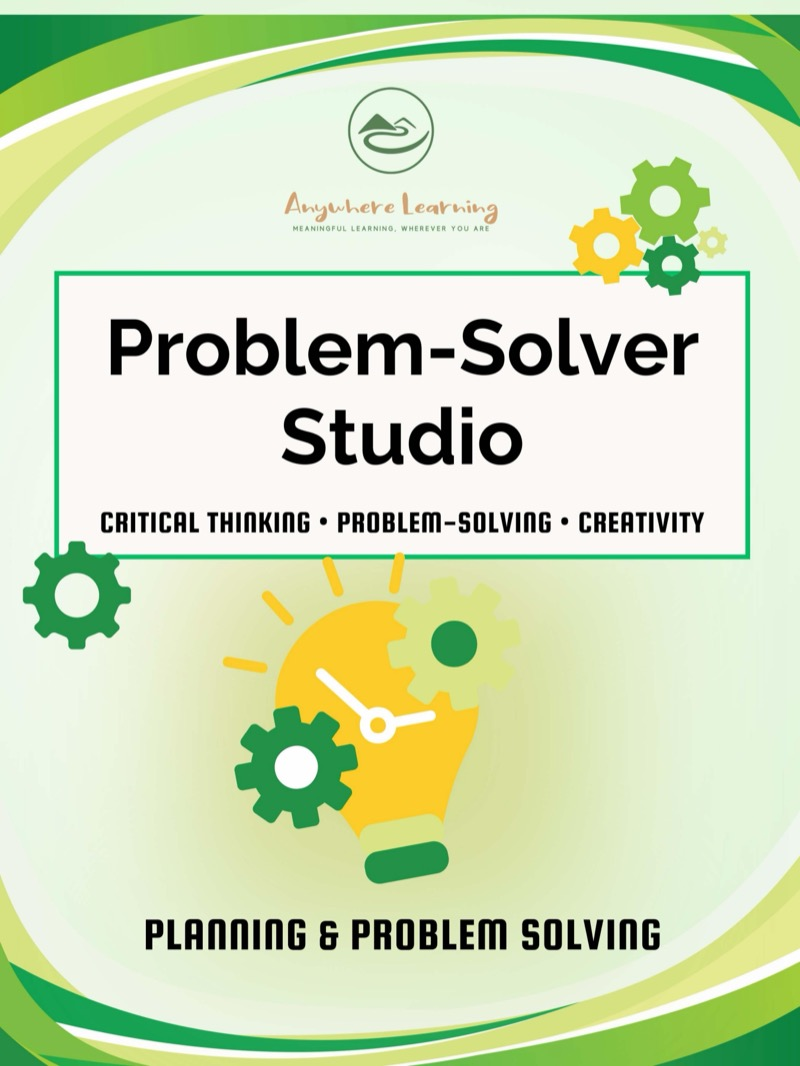
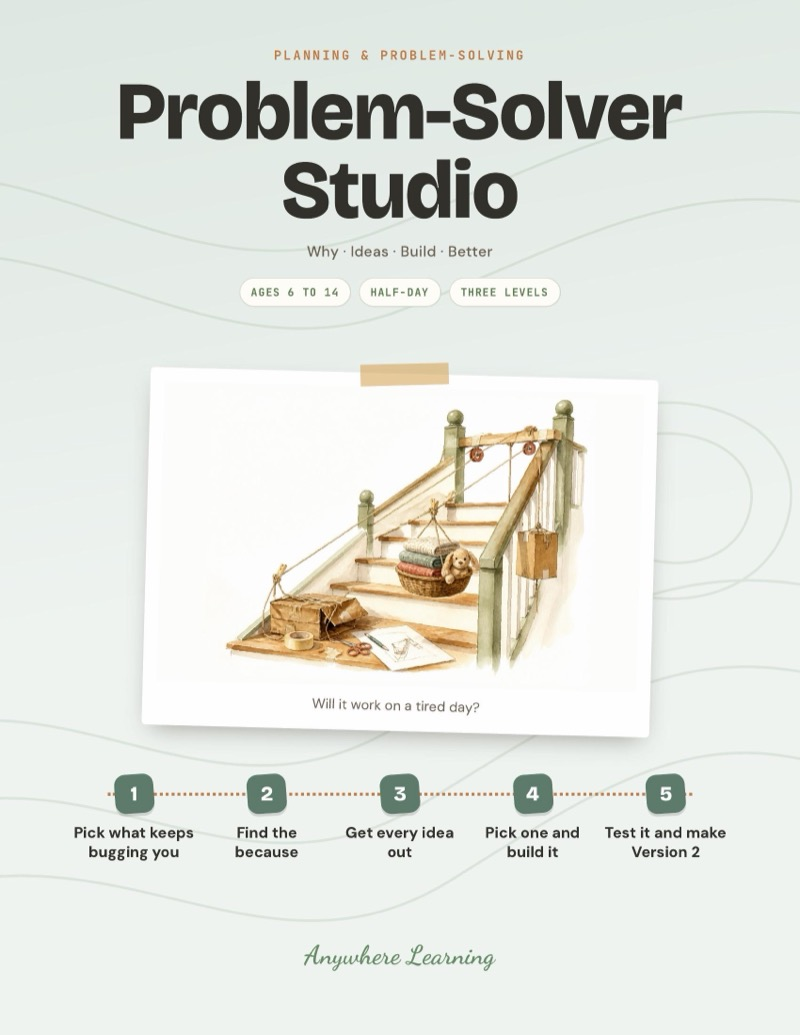
Problem-Solver Studio: redesigned guide, pulley watercolour, new listing, ages 6-14, self-management tag

diff --git a/scripts/seed.ts b/scripts/seed.ts
@@ -53,7 +53,7 @@ async function seed() {
     { name: 'Kitchen Math & Meal Planning Challenge', slug: 'kitchen-math-challenge', description: 'Your child plans one to three real meals for the family, checks what is already at home, turns the meals into a shopping list and prices it by the package. Then they shop it with their own list, help make it, and lay the receipt next to the plan. Real-world STEM maths about what one serving costs, and what the store makes you buy.', shortDescription: 'Real-world maths (STEM) for kids ages 9-14: plan real family meals, price them by the package, shop the list and cook it.', priceCents: 599, compareAtPriceCents: null, stripePriceId: 'price_1TFcTbAMzOBftCntCTnW0gph', blobUrl: '', imageUrl: '/products/kitchen-math-challenge.jpg', category: 'real-world-math', isBundle: false, bundleProductIds: null, activityCount: null, ageRange: 'Ages 9\u201314', sortOrder: 111, active: true },
     { name: 'Media & Info Check', slug: 'media-info-check', description: 'Check reliability signals, find evidence, cross-check sources, and decide what is worth sharing.', shortDescription: 'Media literacy and critical thinking.', priceCents: 599, compareAtPriceCents: null, stripePriceId: 'price_1TFcTcAMzOBftCntRkLHGW3w', blobUrl: '', imageUrl: '/products/media-info-check.jpg', category: 'ai-literacy', isBundle: false, bundleProductIds: null, activityCount: null, ageRange: 'Ages 9\u201314', sortOrder: 80, active: true },
     { name: 'Micro-Business Challenge', slug: 'micro-business', description: 'Design a real business from scratch: idea, pricing, brand, marketing, and pitch.', shortDescription: 'Real entrepreneurship, not a simulation.', priceCents: 599, compareAtPriceCents: null, stripePriceId: 'price_1TFcTcAMzOBftCntZcUkdoFu', blobUrl: '', imageUrl: '/products/micro-business.jpg', category: 'entrepreneurship', isBundle: false, bundleProductIds: null, activityCount: null, ageRange: 'Ages 9\u201314', sortOrder: 130, active: true },
-    { name: 'Problem-Solver Studio', slug: 'problem-solver', description: 'Pick a real problem, brainstorm, prototype with household materials, test, and improve.', shortDescription: 'Design thinking for real problems.', priceCents: 599, compareAtPriceCents: null, stripePriceId: 'price_1TFcTcAMzOBftCntgT52Nlxh', blobUrl: '', imageUrl: '/products/problem-solver.jpg', category: 'planning-problem-solving', isBundle: false, bundleProductIds: null, activityCount: null, ageRange: 'Ages 9\u201314', sortOrder: 141, active: true },
+    { name: 'Problem-Solver Studio', slug: 'problem-solver', description: 'Your child takes something that keeps bugging them, like the water bottle they lose every week, and solves it for good. They find out why it keeps happening, get every idea out, build the simplest fix from what is around the house, test it for real and make a Version 2 that still works on a tired day.', shortDescription: 'Project for kids ages 6-14: find out why a problem keeps coming back, build a simple fix, test it and make Version 2.', priceCents: 599, compareAtPriceCents: null, stripePriceId: 'price_1TFcTcAMzOBftCntgT52Nlxh', blobUrl: '', imageUrl: '/products/problem-solver.jpg', category: 'planning-problem-solving', isBundle: false, bundleProductIds: null, activityCount: null, ageRange: 'Ages 6–14', sortOrder: 141, active: true },
     { name: 'Smart Shopper Lab', slug: 'smart-shopper', description: 'Your child makes a real purchase decision, with their own money or for something the family needs. They compare two options, build their own rubric, see both in person if they can, work out cost per use and hidden costs, and spot the marketing tricks. Then they wait two weeks before buying. Real-world STEM maths and media literacy, and the habit of thinking before spending.', shortDescription: 'Real-world maths (STEM) for kids ages 9-14: compare two real options, work out cost per use, spot the marketing, then wait before buying.', priceCents: 599, compareAtPriceCents: null, stripePriceId: 'price_1TFcTdAMzOBftCntoJjP3hy7', blobUrl: '', imageUrl: '/products/smart-shopper.jpg', category: 'real-world-math', isBundle: false, bundleProductIds: null, activityCount: null, ageRange: 'Ages 9\u201314', sortOrder: 112, active: true },
     { name: 'Time & Energy Planner', slug: 'time-energy-planner', description: 'Map energy patterns, match tasks to brain power, build a real plan, test it, and fix what doesn\u2019t work.', shortDescription: 'Self-management that actually sticks.', priceCents: 599, compareAtPriceCents: null, stripePriceId: 'price_1TFcTdAMzOBftCntcxl1ggJF', blobUrl: '', imageUrl: '/products/time-energy-planner.jpg', category: 'planning-problem-solving', isBundle: false, bundleProductIds: null, activityCount: null, ageRange: 'Ages 9\u201314', sortOrder: 142, active: true },
     { name: 'Travel Day Itinerary Challenge', slug: 'travel-day', description: 'Your child plans a real day out, like a theme park, a zoo, a city or a travel day. They collect a must-do from each person, put the stops in the order that wastes the least time, build a timeline with buffers and a budget, and write a Plan B for what could go wrong. Then they lead the day and compare the plan with what really happened.', shortDescription: 'Planning activity for kids ages 6-14: plan a real day out with must-dos, a timeline, a budget and a Plan B.', priceCents: 599, compareAtPriceCents: null, stripePriceId: 'price_1TFcTeAMzOBftCntm89oK6q4', blobUrl: '', imageUrl: '/products/travel-day.jpg', category: 'planning-problem-solving', isBundle: false, bundleProductIds: null, activityCount: null, ageRange: 'Ages 6\u201314', sortOrder: 143, active: true },

diff --git a/lib/product-descriptions.ts b/lib/product-descriptions.ts
@@ -1129,23 +1129,24 @@ export const productDescriptions: Record<string, ProductDescription> = {
   },
   'problem-solver': {
     opening:
-      'Your child picks a real problem, figures out who it affects, brainstorms solutions, builds a prototype from whatever is around the house, tests it, gets feedback, and makes it better. Design thinking the way real engineers and inventors actually work, applied to everyday life.',
+      'Your child takes something that keeps bugging them, like the water bottle they lose every week, and solves it for good. They find out why it keeps happening, get every idea out, build the simplest fix from what is around the house, test it for real and make a Version 2 that still works on a tired day.',
     whatsIncluded: [
-      'Real problem identification with 8 starter cards',
-      'Who-does-this-affect research step',
-      'Brainstorming with constraints',
-      'Prototype building with household materials',
-      'Testing, feedback, and Version 2 revision',
+      'A 5-step guide from what keeps bugging you to Version 2',
+      'A worked example that shows why trying harder never lasts',
+      'Everyday problems card and Keep asking card',
+      'Idea starters card and The tests card',
+      'My fix page to fill in and keep',
     ],
-    skillTags: ['Critical Thinking', 'Problem-Solving', 'Creativity'],
+    skillTags: ['Problem-Solving', 'Critical Thinking', 'Creativity', 'Testing', 'Independence'],
     insideTheLearning: {
       lead:
-        'Your child picks a real problem, works out who it actually affects, then builds a prototype out of what is in the house and tests it on someone. It fails somewhere, gets revised, and gets tested again. The revision loop is the whole point.',
+        'Your child finds out that most fixes fail because they go after the part you can see. They keep asking why something keeps happening, build a simple fix for the real reason, and test it for a few days until it works without anyone having to remember.',
       skills: [
-        { skill: 'Critical Thinking', where: 'Identifying a problem worth solving and researching who it really affects' },
-        { skill: 'Problem-Solving', where: 'Brainstorming inside real constraints and building a prototype from household materials' },
-        { skill: 'Planning', where: 'Sequencing the build so it gets finished, not just started' },
-        { skill: 'Communication', where: 'Testing it on a real person and taking what they say seriously' },
+        { skill: 'Critical Thinking', where: 'Asking why it keeps happening until they find the real reason' },
+        { skill: 'Creativity', where: 'Getting every idea out and going past the first one' },
+        { skill: 'Science', where: 'Testing a fix, then changing one thing at a time' },
+        { skill: 'Math', where: 'Counting and timing how often it happens before and after' },
+        { skill: 'Independence', where: 'Building something that works without being reminded' },
       ],
     },
     format: 'Project Guide',

diff --git a/lib/fallback-products.ts b/lib/fallback-products.ts
@@ -693,20 +693,20 @@ export const fallbackProducts: FallbackProduct[] = [
     name: "Problem-Solver Studio",
     slug: "problem-solver",
     description:
-      "Your child picks a real problem, figures out who it affects, brainstorms solutions, builds a prototype from whatever is around the house, tests it, gets feedback, and makes it better. Design thinking the way real engineers actually work.",
+      "Your child takes something that keeps bugging them, like the water bottle they lose every week, and solves it for good. They find out why it keeps happening, get every idea out, build the simplest fix from what is around the house, test it for real and make a Version 2 that still works on a tired day.",
     shortDescription:
-      "Design thinking for kids ages 9-14: pick a real problem, prototype a solution, test it, and improve it. Hands-on problem-solving.",
+      "Project for kids ages 6-14: find out why a problem keeps coming back, build a simple fix, test it and make Version 2.",
     priceCents: 599,
     compareAtPriceCents: null,
     stripePriceId: "price_1TLrpoAkIBECpwGmQAxyKwev",
     blobUrl: "",
     imageUrl: "/products/problem-solver.jpg",
-    previewFile: "Preview Planning & Problem-Solving Problem-Solver Studio.pdf",
+    previewFile: "Preview Planning & Problem-Solving Problem-Solver Studio v3.pdf",
     category: "planning-problem-solving",
     isBundle: false,
     bundleProductIds: null,
     activityCount: null,
-    ageRange: "Ages 9–14",
+    ageRange: "Ages 6–14",
     sortOrder: 141,
     active: true,
     createdAt: new Date("2025-04-01"),

diff --git a/lib/activity-blob-urls.ts b/lib/activity-blob-urls.ts
@@ -98,7 +98,7 @@ export const ACTIVITY_BLOB_URLS: Record<string, string> = {
   "pricing-experiment": "https://xkj3tzlgu6ylgllk.public.blob.vercel-storage.com/Entrepreneurship%20-%20Pricing%20Experiment%20v2.pdf",
   "privacy-footprint": "https://xkj3tzlgu6ylgllk.public.blob.vercel-storage.com/AI%20%26%20Digital%20Literacy%20-%20PRIVACY%20%26%20DIGITAL%20FOOTPRINT%20MAP%20v2.pdf",
   "probability-lab": "https://xkj3tzlgu6ylgllk.public.blob.vercel-storage.com/Real-world%20math%20-%20The%20Probability%20Lab%20v5.pdf",
-  "problem-solver": "https://xkj3tzlgu6ylgllk.public.blob.vercel-storage.com/Planning%20%26%20Problem-Solving%20Problem-Solver%20Studio%20v2.pdf",
+  "problem-solver": "https://xkj3tzlgu6ylgllk.public.blob.vercel-storage.com/Planning%20%26%20Problem-Solving%20Problem-Solver%20Studio%20v3.pdf",
   "product-design-lab": "https://xkj3tzlgu6ylgllk.public.blob.vercel-storage.com/Entrepreneurship%20-%20Product%20Design%20Lab%20v2.pdf",
   "prompt-like-a-coach": "https://xkj3tzlgu6ylgllk.public.blob.vercel-storage.com/AI%20%26%20Digital%20Literacy%20-%20PROMPT%20LIKE%20A%20COACH%20v2.pdf",
   "reading-the-room": "https://xkj3tzlgu6ylgllk.public.blob.vercel-storage.com/Emotional%20%26%20Social%20Skills%20-%20Reading%20the%20Room%20v2.pdf",

diff --git a/lib/roadmap.ts b/lib/roadmap.ts
@@ -396,7 +396,7 @@ const SUPPLEMENTAL_TERRITORY_TAGS: Record<string, string[]> = {
   'nature-choice-boards': ['physical', 'self-management', 'critical-thinking'],
   'outdoor-stem-challenges-volume-2': ['physical', 'critical-thinking', 'creativity', 'math'],
   'outdoor-movement-challenge-cards': ['physical', 'self-management'],
-  'problem-solver': ['critical-thinking', 'creativity'],
+  'problem-solver': ['critical-thinking', 'creativity', 'self-management'],
   'farmers-market-challenge': ['math', 'life-skills'],
   'nature-geography-field-study': ['physical', 'critical-thinking'],
   'street-explorer-map-maker': ['creativity', 'critical-thinking', 'physical'],
